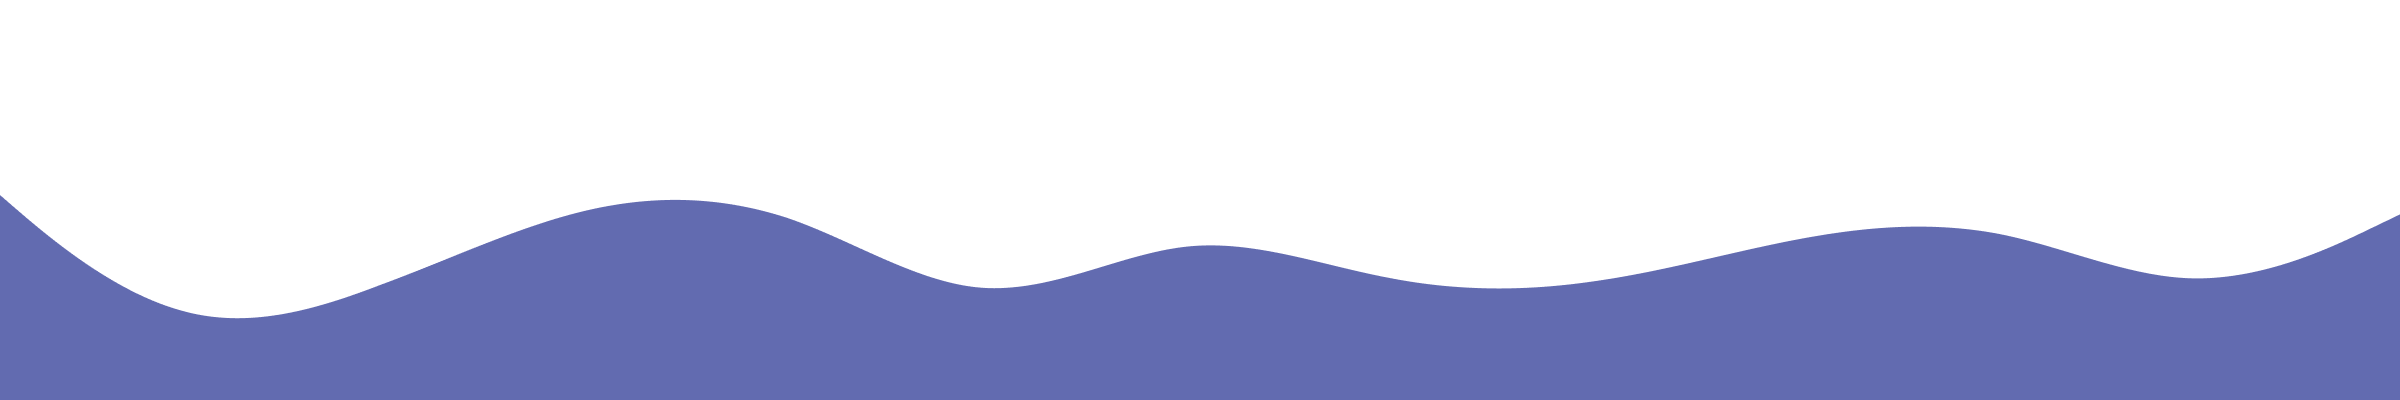
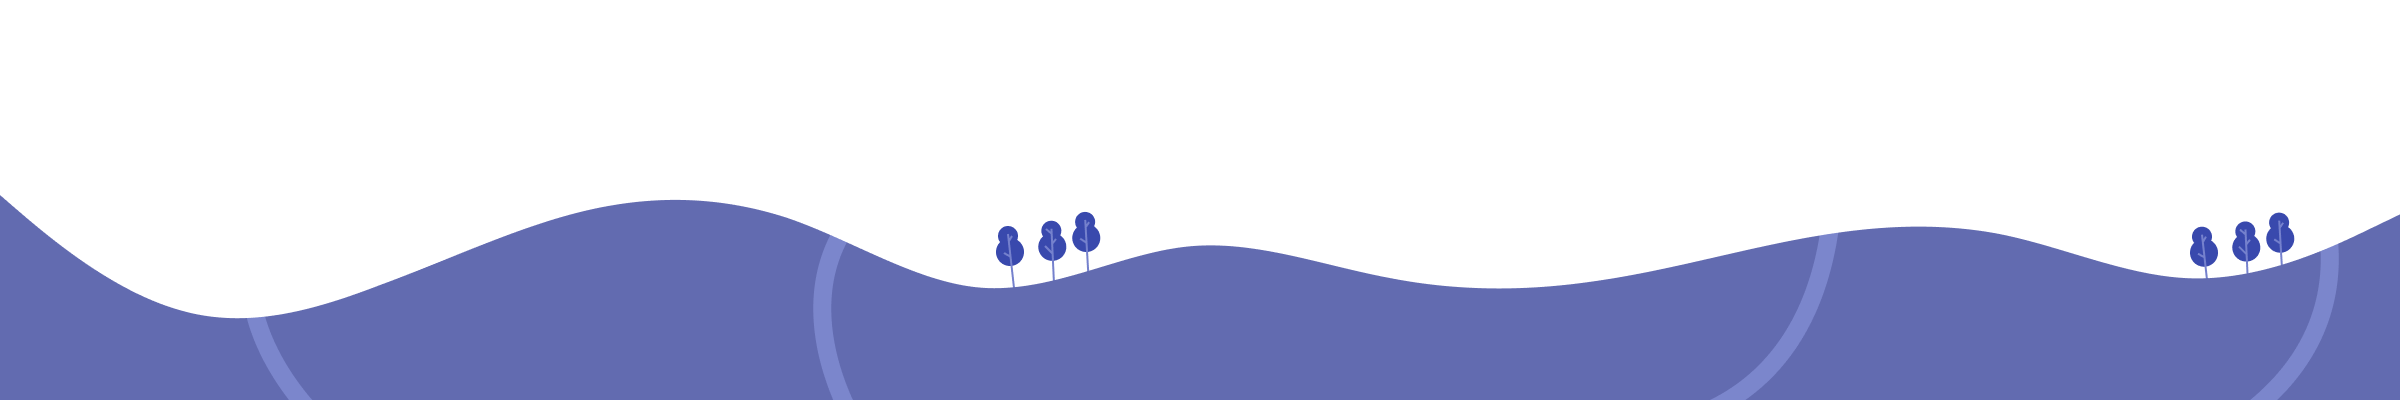
add middle ground

diff --git a/lib/main.dart b/lib/main.dart
@@ -37,6 +37,7 @@ class _RewardsScreenState extends State<RewardsScreen> {
   late LinkedScrollControllerGroup _controllers;
   late ScrollController _cloudsController;
   late ScrollController _groundController;
+  late ScrollController _middleGroundController;
   late ScrollController _rewardsBGController;
   late ScrollController _rewardsController;
 
@@ -46,6 +47,7 @@ class _RewardsScreenState extends State<RewardsScreen> {
     _controllers = LinkedScrollControllerGroup();
     _cloudsController = ScrollController();
     _groundController = ScrollController();
+    _middleGroundController = ScrollController();
     _rewardsBGController = _controllers.addAndGet();
     _rewardsController = _controllers.addAndGet();
 
@@ -64,6 +66,11 @@ class _RewardsScreenState extends State<RewardsScreen> {
                     _rewardsController.position.maxScrollExtent))
             .clamp(0, _cloudsController.position.maxScrollExtent)
             .toDouble();
+        final middleGroundPosition = (_rewardsController.offset *
+                (_middleGroundController.position.maxScrollExtent /
+                    _rewardsController.position.maxScrollExtent))
+            .clamp(0, _middleGroundController.position.maxScrollExtent)
+            .toDouble();
         final groundPosition = (_rewardsController.offset *
                 (_groundController.position.maxScrollExtent /
                     _rewardsController.position.maxScrollExtent))
@@ -74,6 +81,9 @@ class _RewardsScreenState extends State<RewardsScreen> {
           () {
             _cloudsController.jumpTo(
               cloudsPosition,
+            );
+            _middleGroundController.jumpTo(
+              middleGroundPosition,
             );
             _groundController.jumpTo(
               groundPosition,
@@ -141,6 +151,21 @@ class _RewardsScreenState extends State<RewardsScreen> {
                         width: 1200,
                         child: Image.asset(
                           'assets/images/ground.png',
+                          fit: BoxFit.cover,
+                        ),
+                      ),
+                      itemCount: 1,
+                    ),
+                    ListView.builder(
+                      controller: _middleGroundController,
+                      physics: const ClampingScrollPhysics(),
+                      shrinkWrap: true,
+                      scrollDirection: Axis.horizontal,
+                      itemBuilder: (context, index) => SizedBox(
+                        height: 200,
+                        width: 1800,
+                        child: Image.asset(
+                          'assets/images/middle_ground.png',
                           fit: BoxFit.cover,
                         ),
                       ),
